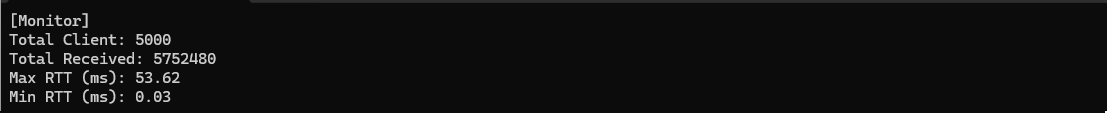
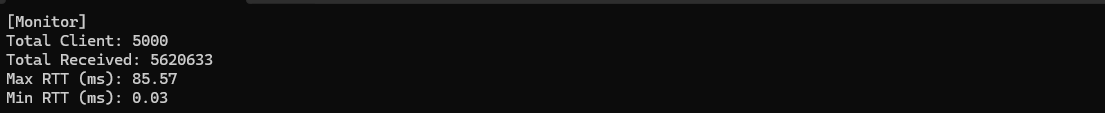
리드미 정리

diff --git a/README.md b/README.md
@@ -1,6 +1,9 @@
-# Dignus Library - High Performance Server Stress Test Benchmark
+# Dignus Library
+## High Performance Server Stress Test Benchmark
 
 ## 🔥 Performance Benchmark
+
+### Test 1
 
 - Total Clients: **5,000**
 - Test Duration: **30 seconds**
@@ -8,6 +11,8 @@
 - Peak Throughput (RPS): **187,354 RPS**
 - Max RTT: **85.57 ms**
 - Min RTT: **0.03 ms**
+
+### Test 2
 
 - Total Clients: **5,000**
 - Test Duration: **30 seconds**
@@ -18,8 +23,13 @@
 
 ## 📷 Test Result Screenshot
 
-![Echo Test Result](Images/Result-1.png)
-![Echo Test Result](Images/Result-2.png)
+### Test 1
+
+![Echo Test Result 1](Images/Result-1.png)
+
+### Test 2
+
+![Echo Test Result 2](Images/Result-2.png)
 
 ## ⚙ Test Environment
 
